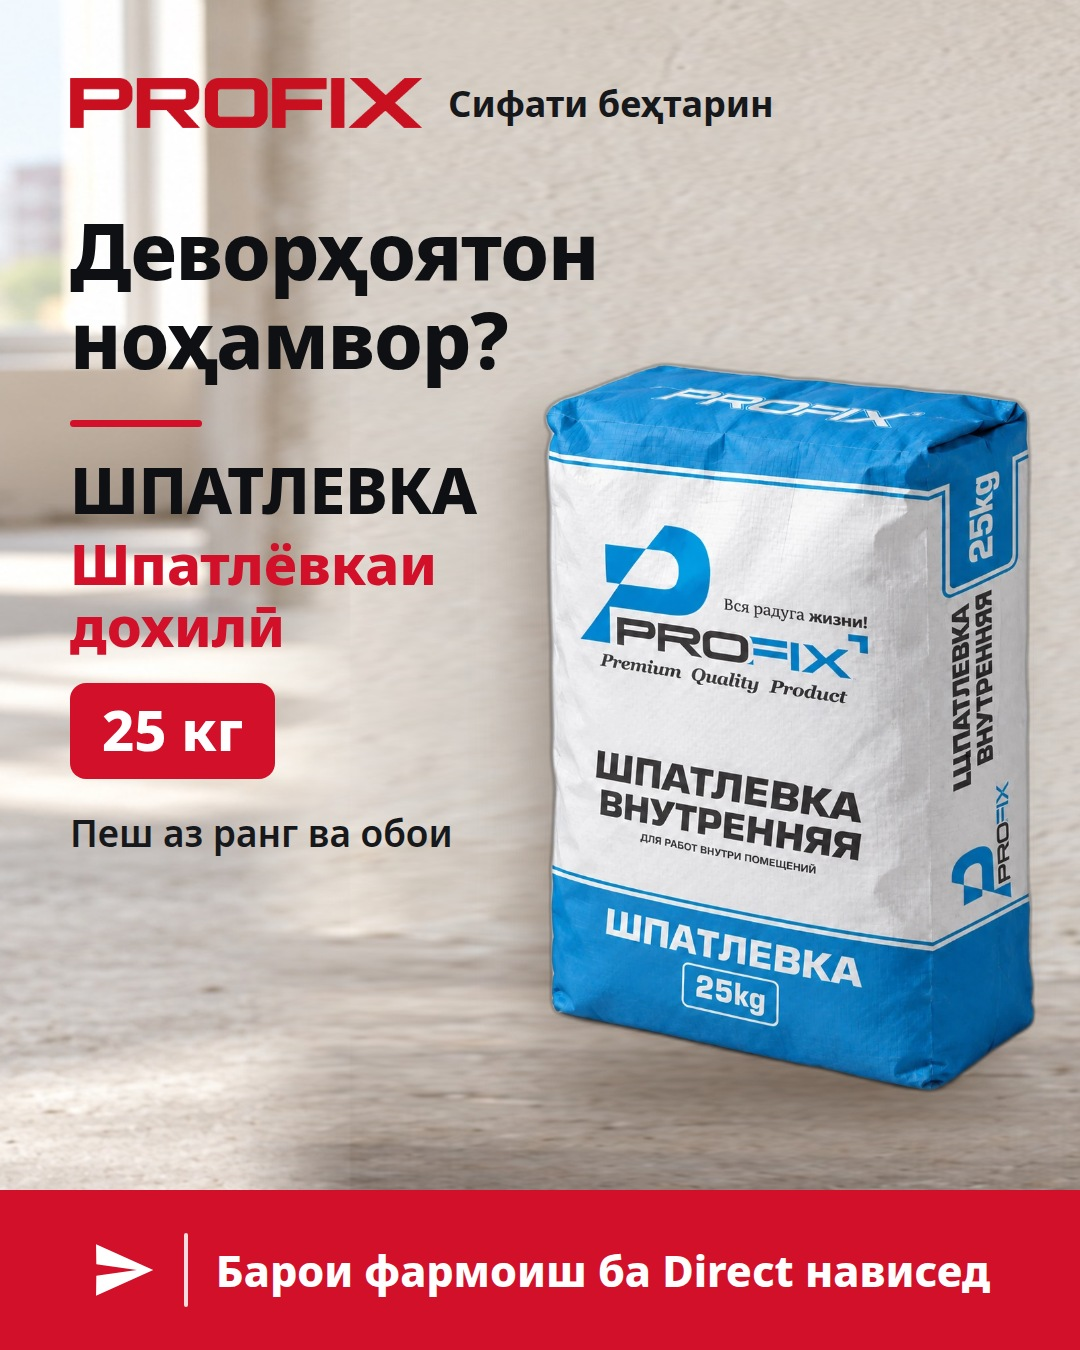
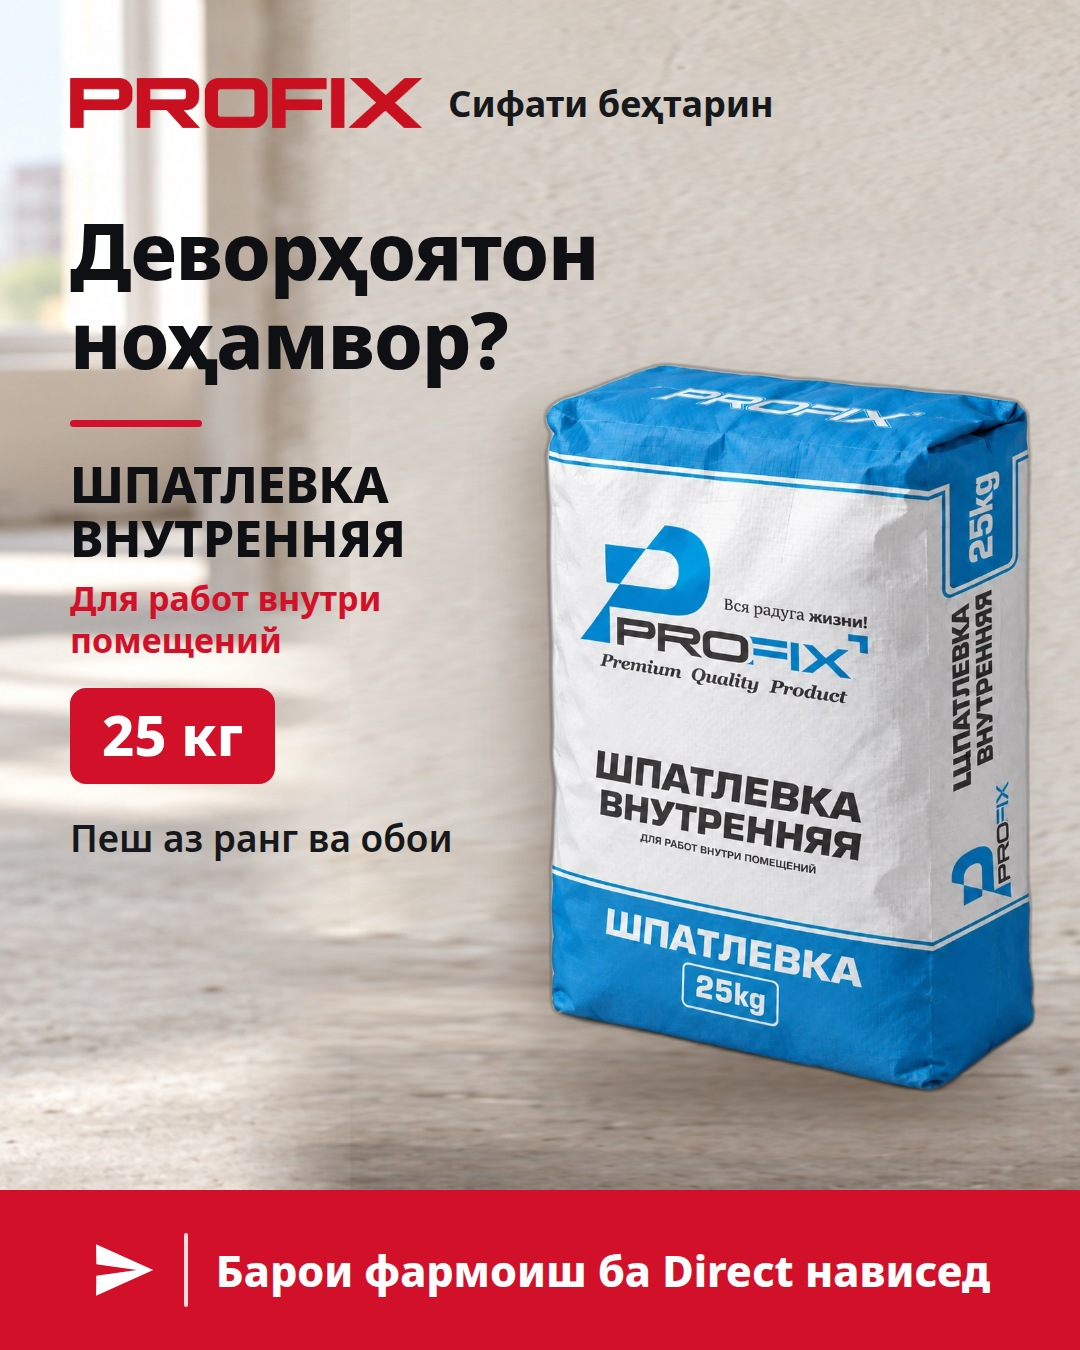
Stop translating product names on the single-post template
Names now read exactly as printed on the packaging in every post —
"Штукатурка гипсовая", "Плиточный клей 700", "Ровнитель для пола" —
matching the same rule just added to the Direct bot's prompt. Only
the headline question and the usage line under the name stay in
Tajik. Ships all ten posts (the ninth was still pending from before).

Claude-Session: https://claude.ai/code/session_01LrvNPqKAVMzFLtfCpousJ9

Changed region(s): [[0.0611, 0.3422, 0.4583, 0.6533]]

diff --git a/content/posts-tj/src/build_hero.py b/content/posts-tj/src/build_hero.py
@@ -8,26 +8,26 @@ LOGO=b64("assets/logo_red.png")
 RED="#D2102A"
 
 PRODUCTS={
- "shpat": dict(img="shpat", hook="Деворҳоятон<br>ноҳамвор?", name="ШПАТЛЕВКА",
-               type="Шпатлёвкаи дохилӣ", weight="25 кг", use="Пеш аз ранг ва обои", h=742),
+ "shpat": dict(img="shpat", hook="Деворҳоятон<br>ноҳамвор?", name="ШПАТЛЕВКА ВНУТРЕННЯЯ",
+               type="Для работ внутри помещений", weight="25 кг", use="Пеш аз ранг ва обои", h=742),
  "blue":  dict(img="blue", hook="Девору шифти<br>ҳамвор мехоҳед?", name="FIZERBERG",
-               type="Штукатуркаи гипси", weight="30 кг", use="Барои корҳои дохилӣ", h=742),
- "rovn":  dict(img="rovn", hook="Фаршатон<br>каҷ аст?", name="РОВНИТЕЛЬ",
-               type="Барои ҳамвор кардани фарш", weight="25 кг", use="Барои корҳои дохилӣ", h=742),
- "k700":  dict(img="k700", hook="Кошин<br>мегузоред?", name="КЛЕЙ 700",
-               type="Ширеши кошини тақвиятдода", weight="25 кг", use="Барои корҳои дохилӣ", h=742),
- "k800":  dict(img="k800", hook="Кошин ба<br>фасад мегузоред?", name="КЛЕЙ 800",
-               type="Ширеши кошини тақвиятдода", weight="25 кг", use="Барои дохил ва фасад", h=742),
+               type="Штукатурка гипсовая", weight="30 кг", use="Барои корҳои дохилӣ", h=742),
+ "rovn":  dict(img="rovn", hook="Фаршатон<br>каҷ аст?", name="РОВНИТЕЛЬ ДЛЯ ПОЛА",
+               type="Для выравнивания пола", weight="25 кг", use="Барои корҳои дохилӣ", h=742),
+ "k700":  dict(img="k700", hook="Кошин<br>мегузоред?", name="ПЛИТОЧНЫЙ КЛЕЙ 700",
+               type="Усиленный, для плиточных работ", weight="25 кг", use="Барои корҳои дохилӣ", h=742),
+ "k800":  dict(img="k800", hook="Кошин ба<br>фасад мегузоред?", name="ПЛИТОЧНЫЙ КЛЕЙ 800",
+               type="Усиленный, для фасадов и плитки", weight="25 кг", use="Барои дохил ва фасад", h=742),
  "kraska_f": dict(img="kraska_f", hook="Фасадро ранг<br>кардан мехоҳед?", name="КРАСКА ФАСАДНАЯ",
-               type="Ранги акрилӣ", weight="20 кг", use="Барои корҳои берунӣ", h=430),
+               type="Акриловая", weight="20 кг", use="Барои корҳои берунӣ", h=430),
  "grunt_f": dict(img="grunt_f", hook="Ранг хуб<br>часпидан гирад", name="ГРУНТОВКА ФАСАДНАЯ",
-               type="Грунтовкаи акрилӣ", weight="20 кг", use="Барои корҳои берунӣ", h=430),
+               type="Акриловая", weight="20 кг", use="Барои корҳои берунӣ", h=430),
  "grunt_v": dict(img="grunt_v", hook="Девор пеш аз<br>ранг омода шавад", name="ГРУНТОВКА ВНУТРЕННЯЯ",
-               type="Грунтовкаи акрилӣ", weight="20 кг", use="Барои корҳои дохилӣ", h=430),
- "dojdik": dict(img="dojdik", hook="Деворро зебо<br>кардан мехоҳед?", name="ДОЖДИК",
-               type="Штукатуркаи ороишӣ", weight="25 кг", use="Барои дохил ва фасад", h=430),
- "shuba":  dict(img="shuba", hook="Фасади зебо<br>мехоҳед?", name="ШУБА",
-               type="Штукатуркаи ороишӣ", weight="20 кг", use="Барои дохил ва фасад", h=430),
+               type="Акриловая", weight="20 кг", use="Барои корҳои дохилӣ", h=430),
+ "dojdik": dict(img="dojdik", hook="Деворро зебо<br>кардан мехоҳед?", name="ШТУКАТУРКА «ДОЖДИК»",
+               type="Декоративная, акриловая", weight="25 кг", use="Барои дохил ва фасад", h=430),
+ "shuba":  dict(img="shuba", hook="Фасади зебо<br>мехоҳед?", name="ШТУКАТУРКА «ШУБА»",
+               type="Декоративная, акриловая", weight="20 кг", use="Барои дохил ва фасад", h=430),
 }
 
 PLANE = ('<svg viewBox="0 0 24 24" width="66" height="66" fill="#fff">'
@@ -70,8 +70,8 @@ body{{font-family:"NS",sans-serif;background:#111;}}
 .left{{position:absolute;left:70px;top:206px;width:520px;z-index:5;}}
 h1{{font-size:78px;line-height:1.14;font-weight:800;color:#0E1013;letter-spacing:-1px;}}
 .rule{{width:132px;height:7px;background:{RED};margin:36px 0 30px;border-radius:4px;}}
-.name{{font-size:64px;font-weight:800;color:#0E1013;line-height:1.04;letter-spacing:-.5px;}}
-.type{{font-size:56px;font-weight:800;color:{RED};line-height:1.1;margin-top:10px;}}
+.name{{font-size:50px;font-weight:800;color:#0E1013;line-height:1.08;letter-spacing:-.3px;}}
+.type{{font-size:34px;font-weight:700;color:{RED};line-height:1.25;margin-top:12px;}}
 .badge{{display:inline-block;margin-top:26px;background:{RED};color:#fff;font-size:56px;
   font-weight:800;padding:8px 32px 12px;border-radius:16px;}}
 .use{{margin-top:28px;font-size:37px;font-weight:600;color:#16181B;}}

diff --git a/content/posts-tj/README.md b/content/posts-tj/README.md
@@ -1,25 +1,52 @@
 # Одиночные посты по макету заказчика (таджикский)
 
 Формат 1080×1350. Макет повторяет слайд, который сделал сам заказчик:
-логотип PROFIX + «Сифати беҳтарин» сверху, вопрос-заголовок, красная черта,
-название продукта, красная строка на таджикском, бейдж с весом, строка
+логотип PROFIX + «Сифати беҳтарин» сверху, вопрос-заголовок, красная
+черта, название продукта, короткая подпись, бейдж с весом, строка
 применения; продукт справа без фона; снизу красная полоса
 «Барои фармоиш ба Direct нависед».
 
-Готово: `shpat.jpg` — шпатлёвка внутренняя, 25 кг (образец на согласование).
+**Названия продукции не переводятся на таджикский** — идут ровно как
+на упаковке (по-русски): «Штукатурка гипсовая», «Плиточный клей 700»,
+«Ровнитель для пола» и так далее. На таджикском — только заголовок-
+вопрос и короткая строка применения снизу. Так клиент узнаёт товар
+и на упаковке, и в переписке с ботом (та же логика зашита в самого
+бота).
 
-Тексты остальных продуктов заведены в `src/build_hero.py`, словарь `PRODUCTS`.
+## Готово — 10 постов
+
+| Файл | Название на слайде | Подпись под названием |
+|---|---|---|
+| `shpat.jpg` | ШПАТЛЕВКА ВНУТРЕННЯЯ, 25 кг | Для работ внутри помещений |
+| `blue.jpg` | FIZERBERG / Штукатурка гипсовая, 30 кг | — |
+| `rovn.jpg` | РОВНИТЕЛЬ ДЛЯ ПОЛА, 25 кг | Для выравнивания пола |
+| `k700.jpg` | ПЛИТОЧНЫЙ КЛЕЙ 700, 25 кг | Усиленный, для плиточных работ |
+| `k800.jpg` | ПЛИТОЧНЫЙ КЛЕЙ 800, 25 кг | Усиленный, для фасадов и плитки |
+| `kraska_f.jpg` | КРАСКА ФАСАДНАЯ, 20 кг | Акриловая |
+| `grunt_f.jpg` | ГРУНТОВКА ФАСАДНАЯ, 20 кг | Акриловая |
+| `grunt_v.jpg` | ГРУНТОВКА ВНУТРЕННЯЯ, 20 кг | Акриловая |
+| `dojdik.jpg` | ШТУКАТУРКА «ДОЖДИК», 25 кг | Декоративная, акриловая |
+| `shuba.jpg` | ШТУКАТУРКА «ШУБА», 20 кг | Декоративная, акриловая |
+
+## Известный нюанс
+
+- **`blue.jpg`** — фото мешка старой печати, сбоку у него написано
+  «ШТУКАТУРКА ЦЕМЕНТНАЯ». Текст на слайде намеренно правильный —
+  «Штукатурка гипсовая» (это гипсовая смесь, ошибка была только на
+  старой упаковке). Пришлёте фото нового мешка с надписью «ШТУКАТУРКА
+  ГИПСОВАЯ» на боку — заменю фото, текст менять не придётся.
 
 ## Ресурсы
 
-- `assets/bg1.png` — фон: интерьер, собран из съёмки красного мешка (мешок убран).
+- `assets/bg1.png` — фон интерьера.
 - `assets/logo_red.png` — логотип PROFIX, красный на прозрачном.
-- Вырезанные продукты — `../carousel-tj/cutouts/*.png`.
+- Вырезанные продукты (без фона) — `../carousel-tj/cutouts/*.png`.
 
 ## Сборка
 
 ```
 cd src
-python3 build_hero.py shpat      # без аргументов — все продукты
+python3 build_hero.py            # без аргументов — все десять
+python3 build_hero.py blue k700  # или выбранные
 python3 shoot_hero.py            # рендер в hero_out/
 ```
